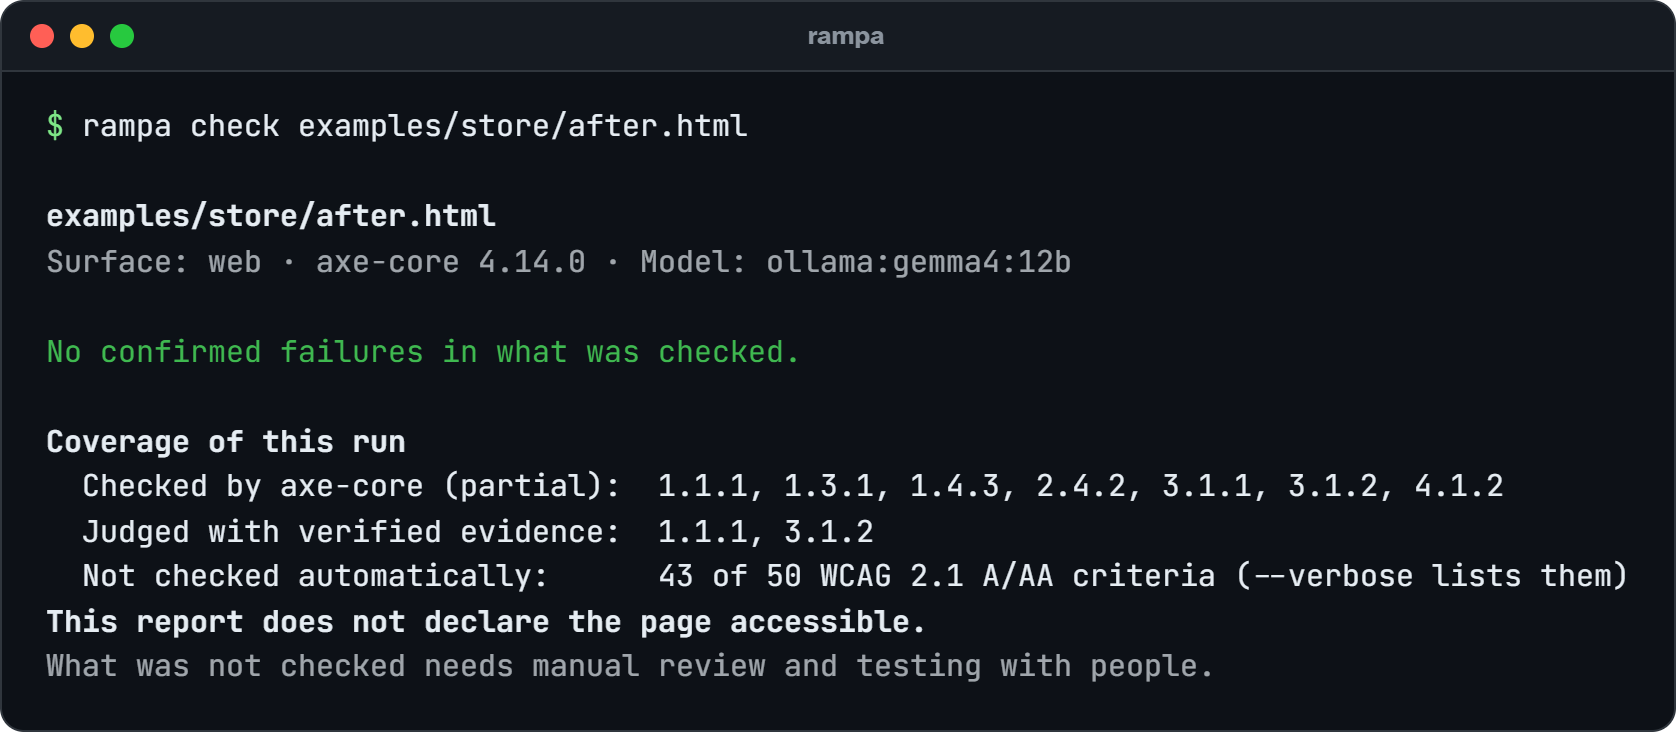
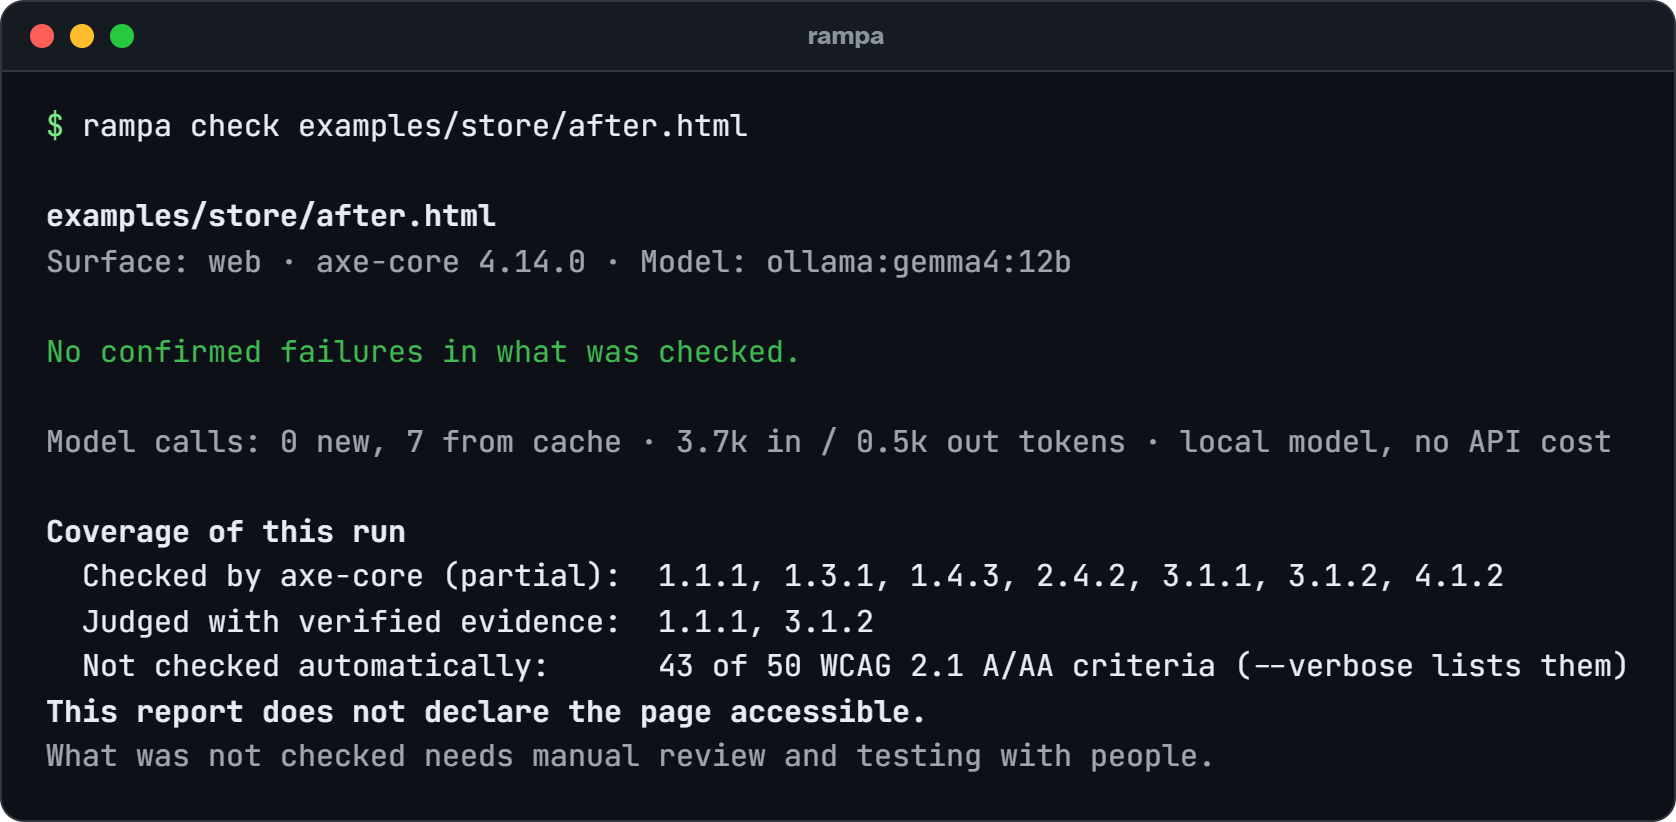
Show what the judgment cost in every check, and record the OpenAI run
- rampa check now ends with the model calls, cached results, tokens and
  the estimated price (or "local model, no API cost"), as rampa eval did
- README: openai:gpt-6-luna got the same evaluation numbers as Gemma 4 12B
  in two live runs, with partly different errors; requiring both models to
  agree would have removed both false positives (a hypothesis, four errors)
- The README images pin their model and locale, so a local .env cannot
  change them, and now show the cost line

diff --git a/test/report.test.ts b/test/report.test.ts
@@ -1,0 +1,45 @@
+import { describe, expect, it } from 'vitest'
+import { memoryCache } from '../src/core/cache.ts'
+import { checkSnapshot } from '../src/core/check.ts'
+import { languageOfParts } from '../src/criteria/language-of-parts.ts'
+import { paint } from '../src/report/color.ts'
+import { renderReport } from '../src/report/pretty.ts'
+import { passingEngine, scriptedProvider, travelSnapshot } from './helpers.ts'
+
+const dutchFail = { verdict: 'fail', detectedLanguage: 'nl', evidence: 'Het weer is vandaag mooi', exception: 'none', confidence: 'high' }
+const portuguesePass = { verdict: 'pass', detectedLanguage: 'pt', evidence: 'Bem-vindo à feira', exception: 'none', confidence: 'high' }
+
+async function judgedReport() {
+  const provider = scriptedProvider({ blockquote: [dutchFail], 'p.sign': [portuguesePass] })
+  return checkSnapshot(travelSnapshot(), passingEngine(), {
+    criteria: [languageOfParts],
+    llm: true,
+    provider,
+    runs: 1,
+    cache: memoryCache(),
+    offline: false,
+    locale: 'en',
+    minConfidence: 'medium',
+    concurrency: 1,
+  })
+}
+
+describe('pretty report', () => {
+  it('says what the judgment took: calls, tokens and the estimated price', async () => {
+    const report = await judgedReport()
+    const text = (model: string, locale: 'en' | 'pt-BR', usage = report.usage) =>
+      renderReport({ ...report, model, locale, usage }, { verbose: false, paint: paint(false) })
+
+    expect(text('openai:gpt-6-luna', 'en')).toContain('Model calls: 2 new, 0 from cache · 0.2k in / 0.0k out tokens · < US$ 0.0001')
+    const page = { ...report.usage, inputTokens: 3900, outputTokens: 600 }
+    expect(text('openai:gpt-6-luna', 'pt-BR', page)).toContain('Chamadas ao modelo: 2 novas, 0 do cache · 3,9 mil tokens de entrada / 0,6 mil de saída · ≈ US$ 0,0007')
+    expect(text('ollama:gemma4:12b', 'en')).toContain('· local model, no API cost')
+    expect(text('someone:unknown-model', 'en')).toMatch(/0\.0k out tokens\n/)
+  })
+
+  it('leaves the line out when no model was called', async () => {
+    const report = await judgedReport()
+    const usage = { calls: 0, cachedCalls: 0, inputTokens: 0, outputTokens: 0, latencyMs: 0 }
+    expect(renderReport({ ...report, usage }, { verbose: false, paint: paint(false) })).not.toContain('Model calls')
+  })
+})

diff --git a/src/report/pretty.ts b/src/report/pretty.ts
@@ -2,6 +2,7 @@ import { relative, sep } from 'node:path'
 import { fileURLToPath } from 'node:url'
 import type { Finding, Report } from '../core/types.ts'
 import { type Locale, t } from '../i18n.ts'
+import { estimateCostUsd } from '../providers/models.ts'
 import { WCAG21_A_AA, compareCriteria, criterionLabel } from '../wcag.ts'
 import type { Painter } from './color.ts'
 
@@ -58,6 +59,9 @@ export function renderReport(report: Report, options: PrettyOptions): string {
     lines.push('')
   }
 
+  const usage = usageLine(report)
+  if (usage) lines.push(p.dim(usage), '')
+
   lines.push(p.bold(t(locale, 'coverageTitle')))
   const labels = [t(locale, 'coverageEngine', { engine: report.engine.name }), t(locale, 'coverageJudged'), t(locale, 'coverageNotChecked')]
   const width = Math.max(...labels.map((label) => label.length)) + 2
@@ -71,6 +75,26 @@ export function renderReport(report: Report, options: PrettyOptions): string {
   lines.push(p.bold(t(locale, 'disclaimer')))
   lines.push(p.dim(t(locale, 'manualReview')))
   return lines.join('\n')
+}
+
+/** What the judgment took: model calls, tokens and the estimated price, counting cached results at what they cost. */
+function usageLine(report: Report): string | undefined {
+  const { usage, locale } = report
+  if (usage.calls + usage.cachedCalls === 0) return undefined
+  const decimal = (value: number, digits: number) => {
+    const text = value.toFixed(digits)
+    return locale === 'pt-BR' ? text.replace('.', ',') : text
+  }
+  const line = t(locale, 'usage', {
+    calls: usage.calls,
+    cached: usage.cachedCalls,
+    input: decimal(usage.inputTokens / 1000, 1),
+    output: decimal(usage.outputTokens / 1000, 1),
+  })
+  const cost = estimateCostUsd(report.model, usage.inputTokens, usage.outputTokens)
+  if (cost === undefined) return line
+  if (cost === 0) return `${line} · ${t(locale, 'usageLocal')}`
+  return `${line} · ${cost < 0.0001 ? `< US$ ${decimal(0.0001, 4)}` : `≈ US$ ${decimal(cost, 4)}`}`
 }
 
 function renderFinding(finding: Finding, locale: Locale, p: Painter): string[] {

diff --git a/src/i18n.ts b/src/i18n.ts
@@ -40,6 +40,8 @@ const messages = {
     judgmentErrors: 'The model failed on {count} candidate(s): {error}',
     noModel: 'No model configured, so only the deterministic layer ran. Pass --model (for example ollama:gemma4:12b or anthropic:claude-haiku-5-5) or set an API key; see rampa models.',
     offlineMisses: '{count} candidate(s) had no cached judgment (--offline).',
+    usage: 'Model calls: {calls} new, {cached} from cache · {input}k in / {output}k out tokens',
+    usageLocal: 'local model, no API cost',
     modelSaid: 'the model said',
     detected: 'detected',
     surface: 'Surface',
@@ -78,6 +80,8 @@ const messages = {
     judgmentErrors: 'O modelo falhou em {count} candidato(s): {error}',
     noModel: 'Nenhum modelo configurado, então só a camada determinística rodou. Use --model (por exemplo ollama:gemma4:12b ou anthropic:claude-haiku-5-5) ou defina uma chave de API; veja rampa models.',
     offlineMisses: '{count} candidato(s) sem julgamento em cache (--offline).',
+    usage: 'Chamadas ao modelo: {calls} novas, {cached} do cache · {input} mil tokens de entrada / {output} mil de saída',
+    usageLocal: 'modelo local, sem custo de API',
     modelSaid: 'o modelo disse',
     detected: 'detectou',
     surface: 'Superfície',

diff --git a/scripts/media.ts b/scripts/media.ts
@@ -149,8 +149,11 @@ async function renderIntro(page: Page): Promise<void> {
   if (last) await writeFile(join(OUT, 'intro.png'), last)
 }
 
+// The README shows the published run, whatever model or locale a local .env picks.
+const PINNED = ['--model', 'ollama:gemma4:12b']
+
 function run(args: string[]): string {
-  const result = spawnSync(process.execPath, ['dist/cli.mjs', ...args], {
+  const result = spawnSync(process.execPath, ['dist/cli.mjs', ...args, ...PINNED, ...(args.includes('--locale') ? [] : ['--locale', 'en'])], {
     encoding: 'utf8',
     env: { ...process.env, FORCE_COLOR: '1' },
     maxBuffer: 16 * 1024 * 1024,

diff --git a/README.md b/README.md
@@ -256,7 +256,7 @@ Criteria never read the DOM. They read the snapshot, so the core is the same for
 
 <img alt="Output of rampa eval for WCAG 3.1.2 and 1.1.1 with ollama:gemma4:12b. On the syntax sets (ACT de46e4 and 23a2a8) both have precision and recall 1.00. On the semantic sets, axe-core has recall 0.00 and Rampa reaches F1 0.75 on off6ek and 0.80 on qt1vmo. On corrupted pairs, axe-core tells intact and corrupted apart in 0 of 5 lang pairs and 0 of 2 alt pairs; Rampa in 4 of 5 and 2 of 2. 36 candidates, none discarded by verification." src="docs/media/eval.png" width="760">
 
-| Set | Cases | axe-core P / R | Rampa P / R / F1 |
+| Set | Cases | axe-core P / R | Rampa P / R / F1, both models |
 | --- | :---: | :---: | :---: |
 | 3.1.2, ACT de46e4 (valid tag, syntax) | 19 | 1.00 / 1.00 | 1.00 / 1.00 / 1.00 |
 | 3.1.2, ACT off6ek (language matches the text) | 13 | — / 0.00 | 0.75 / 0.75 / 0.75 |
@@ -265,6 +265,8 @@ Criteria never read the DOM. They read the snapshot, so the core is the same for
 | 1.1.1, ACT qt1vmo (name is descriptive) | 16 | — / 0.00 | 1.00 / 0.67 / 0.80 |
 
 First run on 2026-10-07: axe-core 4.14.0, Gemma 4 12B on a local GPU, reasoning off, one run, ACT test cases `a9a1483e`. A second run from an empty cache gave the same numbers. The judgment layer added no false positive on the syntax sets, and no claim failed verification in this run; the unit tests show what happens to one that does. The samples are small; read these numbers as a working pipeline, not as a result. Wilson intervals are in each run's `summary.json`.
+
+On 2026-10-08, `openai:gpt-6-luna` (reasoning at its default, medium) got the same numbers, in two runs with fresh calls that gave the same verdict on all 73 cases: 36 judgments, 29 s, about US$ 0.005 per run. The errors are not all the same. Both models miss the same two failures, and each flags a different passing example. Keeping a failure only when both models agree would have removed both false positives (off6ek precision 1.00, and the language pairs 5 of 5). With four errors in all, that is a hypothesis to test, not a result.
 
 ```sh
 rampa eval --criteria 1.1.1,3.1.2 --no-llm      # baseline only
